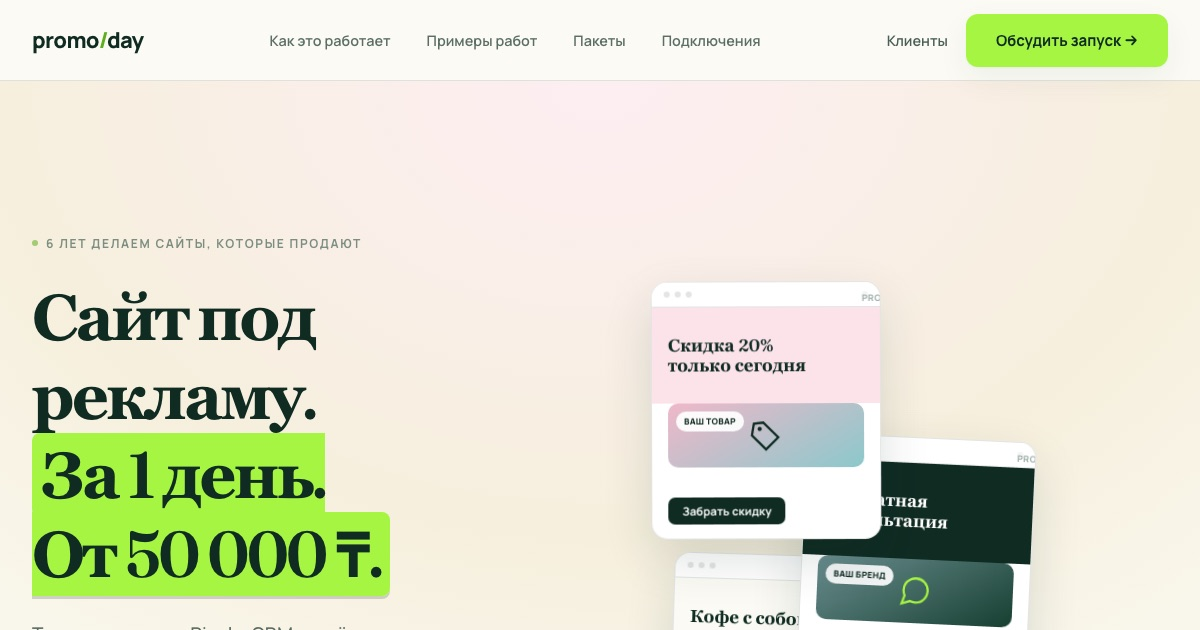
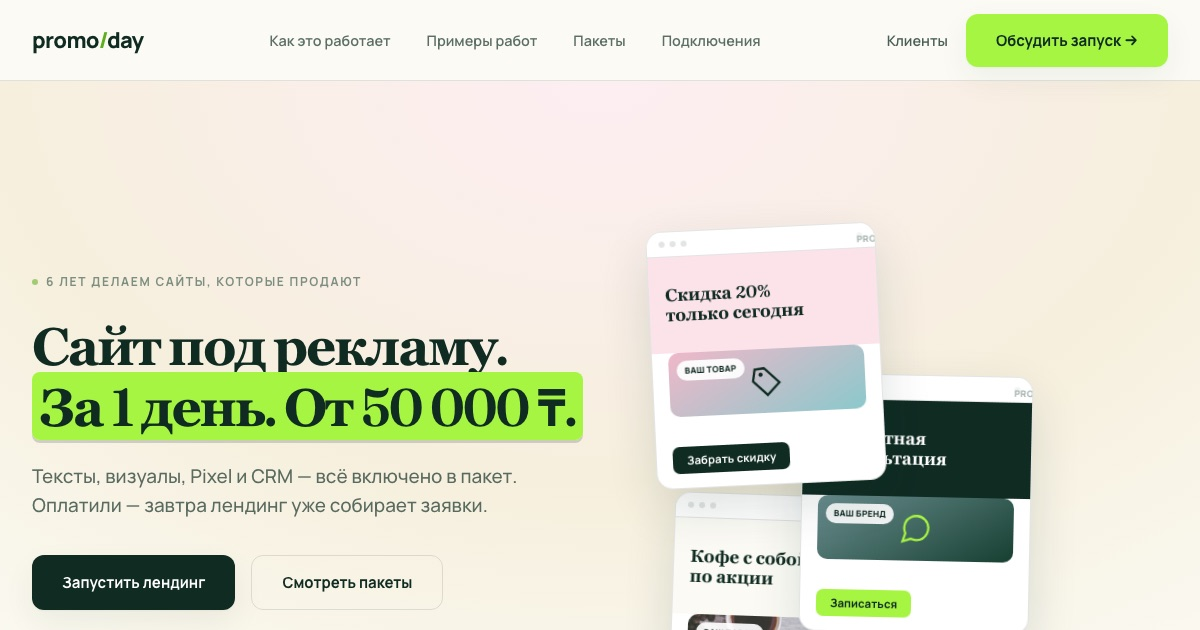
Reduce hero h1 font size so 2-line headline takes less vertical space

diff --git a/index-v4.html b/index-v4.html
@@ -62,7 +62,7 @@
     .hero-inner{padding-top:28px;position:relative;z-index:1}
     .hero-top{display:grid;grid-template-columns:1.05fr 0.95fr;gap:48px;align-items:center}
     .hero-copy{text-align:left}
-    .hero h1{font-size:clamp(38px,5.4vw,72px);margin:26px 0 0;letter-spacing:-.045em;line-height:1.22}
+    .hero h1{font-size:clamp(32px,4.4vw,58px);margin:26px 0 0;letter-spacing:-.04em;line-height:1.14}
     .hero .marker{background:var(--lime);padding:.03em .14em;border-radius:8px;box-shadow:0 3px 0 rgba(15,43,34,.18)}
     .hero p{max-width:560px;margin:26px 0 0;font-size:19px;font-weight:500;line-height:1.5;opacity:.68}
     .hero-actions{margin-top:36px;display:flex;gap:16px;flex-wrap:wrap}

diff --git a/index.html b/index.html
@@ -75,7 +75,7 @@
     .hero-inner{padding-top:28px;position:relative;z-index:1}
     .hero-top{display:grid;grid-template-columns:1.05fr 0.95fr;gap:48px;align-items:center}
     .hero-copy{text-align:left}
-    .hero h1{font-size:clamp(38px,5.4vw,72px);margin:26px 0 0;letter-spacing:-.045em;line-height:1.22}
+    .hero h1{font-size:clamp(32px,4.4vw,58px);margin:26px 0 0;letter-spacing:-.04em;line-height:1.14}
     .hero .marker{background:var(--lime);padding:.03em .14em;border-radius:8px;box-shadow:0 3px 0 rgba(15,43,34,.18)}
     .hero p{max-width:560px;margin:26px 0 0;font-size:19px;font-weight:500;line-height:1.5;opacity:.68}
     .hero-actions{margin-top:36px;display:flex;gap:16px;flex-wrap:wrap}
